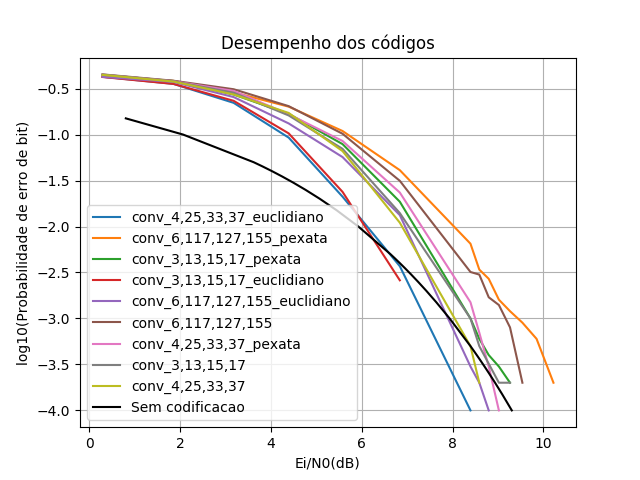
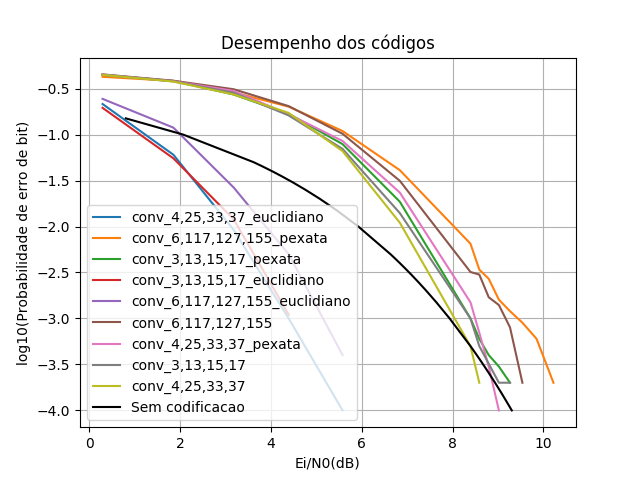
Conserta variancia do canal AWGN

diff --git a/main.py b/main.py
@@ -8,6 +8,7 @@ import Grafico
 import random
 import ModuladorBPSK
 import math
+import time
 
 def defineVetorDeP():
     p = []
@@ -77,7 +78,7 @@ if __name__ == '__main__':
         # itera sobre todos os valores de p possiveis
         for p in vetorP[1:]:
             # canal.alteraProbabilidadeDeErro(p)
-            canal_gaussiano.alteraVariancia(-1/math.log(2*p))
+            canal_gaussiano.alteraVariancia(-1/math.log(2*p)/2)
             codificador.resetCodificador() # reseta as memorias
             decodificador = Decodificador.Decodificador(codificador, mode='euclidiano')    
             totalDeErros = 0
@@ -89,7 +90,9 @@ if __name__ == '__main__':
             for i in range(qtdBitsEnviados):
                 bitParaEnviar = sorteiaBit()
                 enviado.append(bitParaEnviar)
+                
                 codificado = codificador.codifica(bitParaEnviar) # nesse caso so codifica o bit 0
+                
                 modulado = BPSK.modula(codificado)
                 recebido = canal_gaussiano.transmitir(modulado)
                 decodificador.adicionaSubSequencia(recebido)
